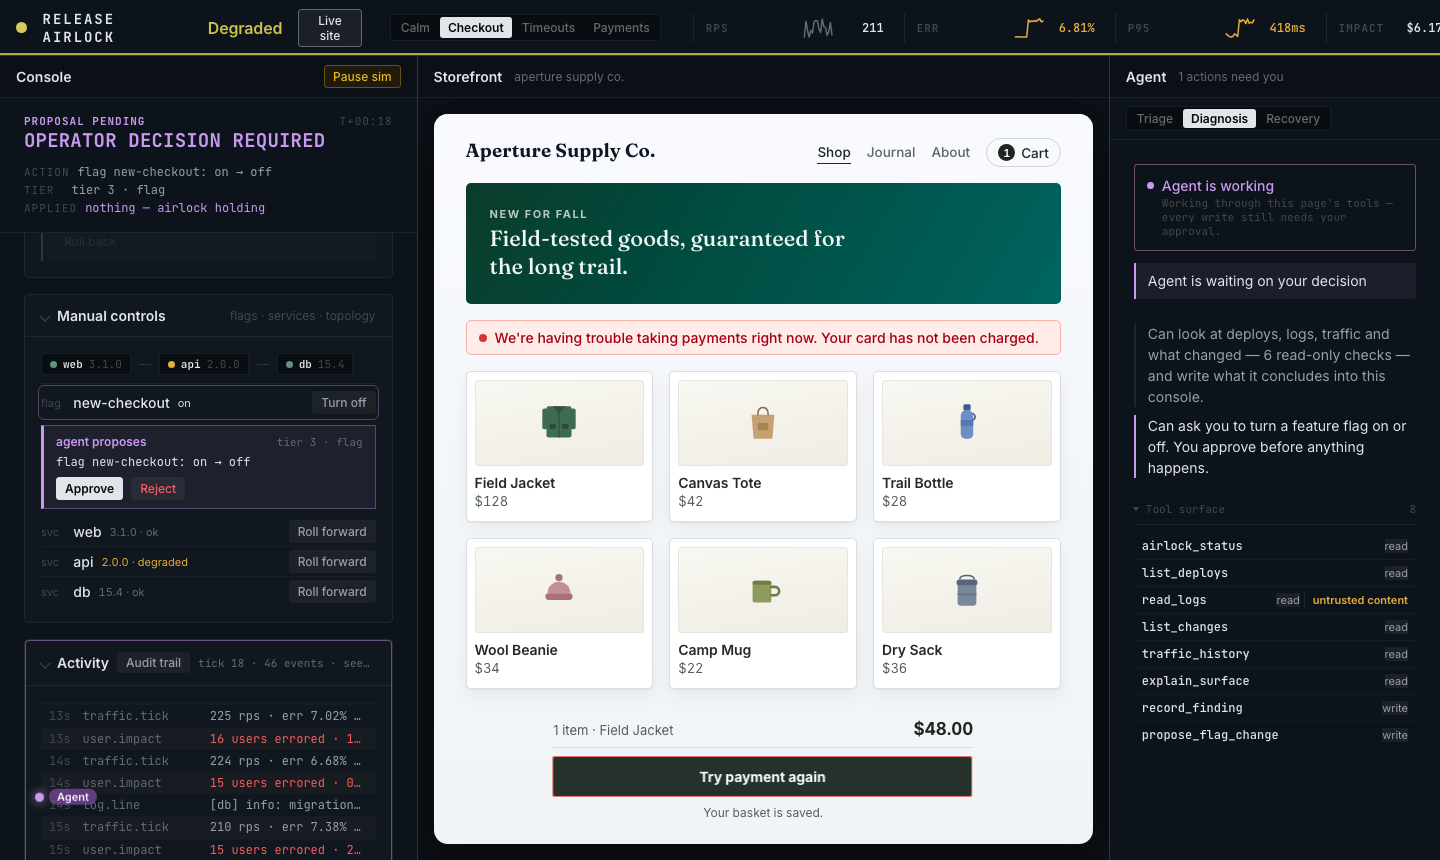
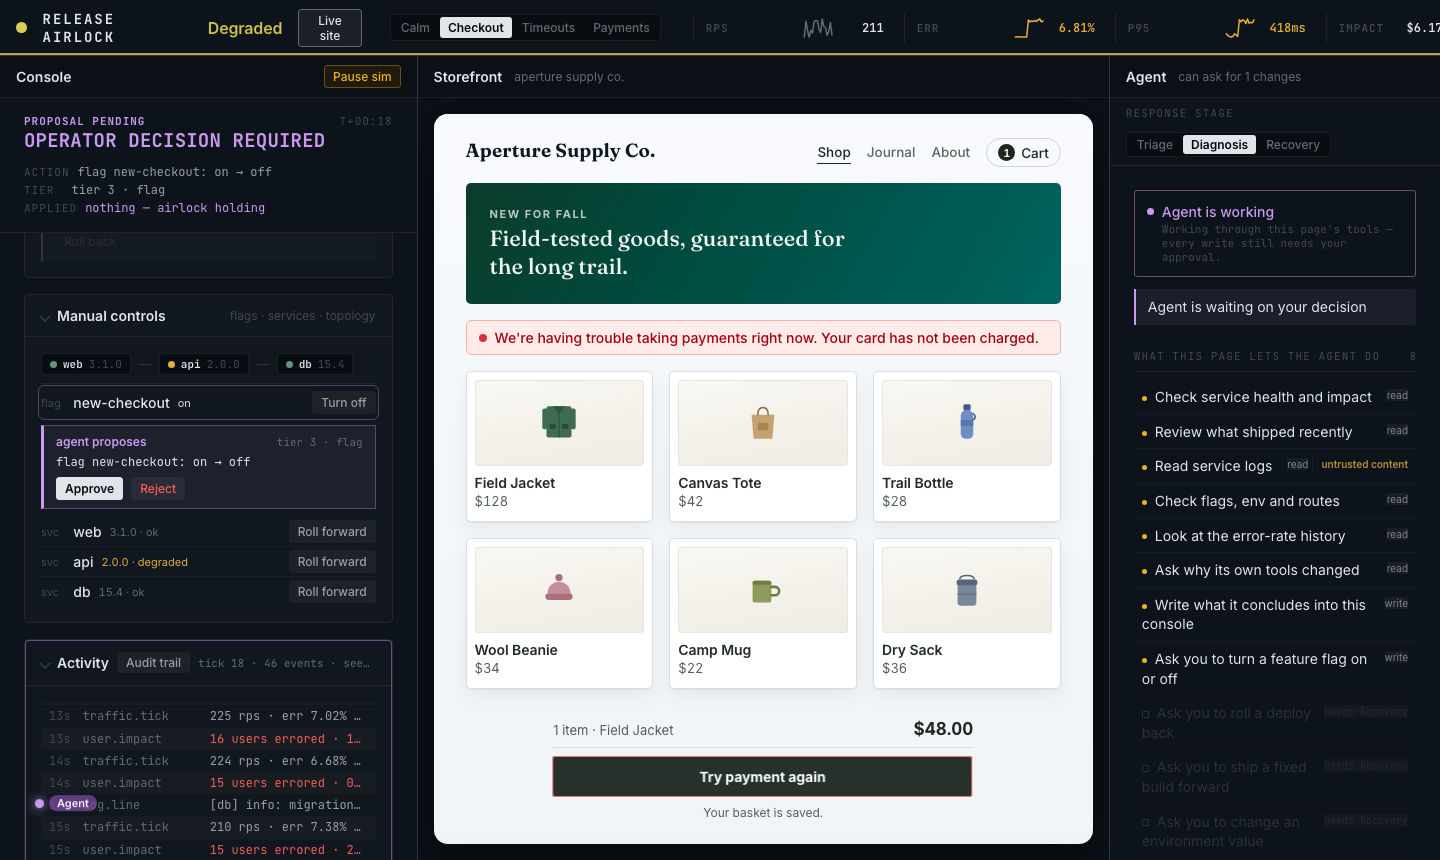
M5: the capability ladder — show what the page will and won't let the agent do
Sid: "what is the agent tool listing pane for? If I'm a new dev I don't know
what those tools do — it just increases cognitive load." And: build the
product so it exercises the SPIRIT of WebMCP, visibly.

The rail listed function names with read/write badges. That is an inventory;
it tells an operator nothing. Replaced with a ladder that answers the two
questions someone actually has: what can this thing reach right now, and
what is still shut?

  What this page lets the agent do                          12
  · Check service health and impact                       read
  · Review what shipped recently                          read
  · Write what it concludes into this console            write
  ▫ Ask you to roll a deploy back            needs Recovery
  ▫ Ask you to move traffic elsewhere        needs Recovery
  Every action on this page is available to the agent as a proposal.

Locked rungs are SHOWN, not hidden — "what it cannot do" is the more
reassuring half, and it makes the mode switch self-explanatory instead of
three unexplained words. Raw tool names moved to the title attribute: one
hover away for whoever wants them, off the surface for everyone else.

This is the thesis made visible rather than argued. The page decides what
the agent may attempt, and you can watch the decision change.

Also in this pass:
- the mode control is labelled "Response stage" rather than three bare pills
- locked rungs say "needs Diagnosis" / "needs Recovery", capitalised as
[…]

diff --git a/src/main.ts b/src/main.ts
@@ -2,7 +2,7 @@ import './styles/tokens.css';
 import './styles/shell.css';
 import { actionKey } from './harness/metrics';
 import { Engine } from './sim/engine';
-import { MODES, type Mode } from './sim/modes';
+import { MODES, MODE_WRITE_TOOLS, type Mode } from './sim/modes';
 import type { EntityRef, QueryRequest } from './sim/queries';
 import { templateIds } from './sim/templates';
 import type { SimRequest, SimResponse } from './sim/worker';
@@ -219,6 +219,7 @@ app.innerHTML = `
         <span class="pane-sub" id="rail-sub">standing by</span>
       </header>
       <div class="rail-modes">
+        <span class="rail-modes-label">Response stage</span>
         <div class="mode-switch" id="mode-switch" data-testid="mode-switch">
           ${MODES.map(
             (m) =>
@@ -240,15 +241,14 @@ app.innerHTML = `
 
         <div class="findings" id="agent-findings" aria-live="polite"></div>
 
-        <div class="agent-can" id="agent-can">
-          <p class="can-line" id="can-read"></p>
-          <p class="can-line" id="can-write"></p>
-        </div>
-
-        <details class="tool-surface" id="tool-surface" open>
-          <summary><span class="ts-label">Tool surface</span><span class="ts-count" id="tool-count"></span></summary>
+        <section class="ladder" id="tool-surface" aria-label="What the agent can reach">
+          <div class="ladder-head">
+            <span class="ladder-title">What this page lets the agent do</span>
+            <span class="ts-count" id="tool-count"></span>
+          </div>
           <ul id="tool-list" data-testid="tool-list"></ul>
-        </details>
+          <p class="ladder-foot" id="ladder-foot"></p>
+        </section>
 
         <div class="agent-empty" id="agent-empty">
           <p class="ae-head">No agent connected</p>
@@ -1556,36 +1556,54 @@ const HUMAN_WRITE: Record<string, string> = {
 
 function renderCapability(tools: AirlockTools): void {
   const active = tools.list().filter((t) => t.status === 'active');
-  // record_finding writes to the console's timeline, not the world, so it
-  // never waits on approval — listing it here said "you approve before
-  // anything happens" about a tool that needs no approval.
   const writes = active.filter((t) => !t.readOnly && t.name !== 'record_finding');
-  const readEl = document.querySelector<HTMLElement>('#can-read')!;
-  const writeEl = document.querySelector<HTMLElement>('#can-write')!;
-  const countEl = document.querySelector<HTMLElement>('#tool-count')!;
-
-  const reads = active.filter((t) => t.readOnly).length;
-  readEl.textContent = `Can look at deploys, logs, traffic and what changed — ${reads} read-only checks — and write what it concludes into this console.`;
-
-  if (writes.length === 0) {
-    writeEl.textContent = 'Cannot change anything in this mode.';
-    writeEl.dataset.tone = 'none';
-  } else {
-    const phrases = writes.map((w) => HUMAN_WRITE[w.name] ?? w.name);
-    const last = phrases.pop();
-    writeEl.textContent = `Can ask you to ${phrases.length ? `${phrases.join(', ')} or ${last}` : last}. You approve before anything happens.`;
-    writeEl.dataset.tone = 'write';
-  }
-  countEl.textContent = String(active.length);
-
+  const countEl = document.querySelector<HTMLElement>('#tool-count');
+  if (countEl) countEl.textContent = String(active.length);
   const sub = document.querySelector<HTMLElement>('#rail-sub');
-  if (sub) sub.textContent = writes.length === 0 ? 'read-only' : `${writes.length} actions need you`;
+  if (sub) {
+    sub.textContent =
+      writes.length === 0 ? 'can look, cannot change' : `can ask for ${writes.length} changes`;
+  }
+}
+
+/**
+ * THE CAPABILITY LADDER.
+ *
+ * A list of function names is an inventory; it tells an operator nothing.
+ * What they need is: what can this thing reach RIGHT NOW, and what is still
+ * shut. So the rail shows the whole ladder — granted rungs as plain
+ * sentences, and locked rungs with the stage that would open them.
+ *
+ * The thesis made visible rather than argued: the PAGE decides what the
+ * agent may attempt, and you can see the decision. Raw tool names stay one
+ * hover away, for whoever actually wants them.
+ */
+const RUNG_LABEL: Record<string, string> = {
+  airlock_status: 'Check service health and impact',
+  list_deploys: 'Review what shipped recently',
+  read_logs: 'Read service logs',
+  list_changes: 'Check flags, env and routes',
+  traffic_history: 'Look at the error-rate history',
+  explain_surface: 'Ask why its own tools changed',
+  record_finding: 'Write what it concludes into this console',
+  propose_flag_change: 'Ask you to turn a feature flag on or off',
+  propose_rollback: 'Ask you to roll a deploy back',
+  propose_rollforward: 'Ask you to ship a fixed build forward',
+  propose_env_change: 'Ask you to change an environment value',
+  propose_route_change: 'Ask you to move traffic elsewhere',
+};
+
+/** Which stage first grants each proposal, for the locked rungs. */
+function grantingStage(tool: string): Mode | undefined {
+  return MODES.find((m) => MODE_WRITE_TOOLS[m].includes(tool));
 }
 
 function renderToolRail(tools: AirlockTools): void {
   const list = document.querySelector<HTMLUListElement>('#tool-list')!;
   list.innerHTML = '';
+  const shown = new Set<string>();
   for (const t of tools.list()) {
+    shown.add(t.name);
     const li = document.createElement('li');
     li.dataset.tool = t.name;
     li.dataset.status = t.status;
@@ -1597,7 +1615,8 @@ function renderToolRail(tools: AirlockTools): void {
         ${t.untrusted ? '<span class="tool-badge tool-badge-untrusted">untrusted content</span>' : ''}
       </span>
     `;
-    li.querySelector('.tool-name')!.textContent = t.name;
+    li.querySelector('.tool-name')!.textContent = RUNG_LABEL[t.name] ?? t.name;
+    li.title = t.name; // the raw tool name stays one hover away
     if (t.status === 'tombstoned') {
       // The vanishing is the point, and it has to read in one glance — the
       // full reason ("left with recovery mode") wrapped to two ragged lines.
@@ -1610,9 +1629,33 @@ function renderToolRail(tools: AirlockTools): void {
     }
     list.append(li);
   }
+  // the rungs this page has NOT granted yet — shown, not hidden, because
+  // "what it cannot do" is the more reassuring half
+  for (const name of Object.keys(RUNG_LABEL)) {
+    if (shown.has(name)) continue;
+    const stage = grantingStage(name);
+    if (!stage) continue;
+    const li = document.createElement('li');
+    li.dataset.tool = name;
+    li.dataset.status = 'locked';
+    li.title = name;
+    li.innerHTML = `<span class="tool-name"></span><span class="tool-badges"><span class="tool-badge tool-badge-locked"></span></span>`;
+    li.querySelector('.tool-name')!.textContent = RUNG_LABEL[name]!;
+    li.querySelector('.tool-badge-locked')!.textContent =
+      `needs ${stage.charAt(0).toUpperCase()}${stage.slice(1)}`;
+    list.append(li);
+  }
+
   document.querySelectorAll<HTMLButtonElement>('#mode-switch [data-mode]').forEach((b) => {
     b.setAttribute('aria-pressed', String(b.dataset.mode === tools.mode()));
   });
+  const foot = document.querySelector<HTMLElement>('#ladder-foot');
+  if (foot) {
+    const locked = list.querySelectorAll('li[data-status="locked"]').length;
+    foot.textContent = locked
+      ? `${locked} more become available as you move the response stage on.`
+      : 'Every action on this page is available to the agent as a proposal.';
+  }
   renderCapability(tools);
 }
 

diff --git a/src/styles/shell.css b/src/styles/shell.css
@@ -1495,3 +1495,73 @@ body {
 .caution-foot { margin: var(--sp-2) 0 0; font-size: var(--text-2xs); color: var(--ink-ghost); }
 [data-caution='pending'] { box-shadow: 0 0 0 1px var(--actor-agent); }
 @media (prefers-reduced-motion: reduce) { .agent-caution { animation: none; } }
+
+/* --- the capability ladder ----------------------------------------------
+   Granted rungs read as plain sentences; locked rungs stay visible and say
+   what would open them. Function names live on hover, not on the surface. */
+.ladder { margin-bottom: var(--sp-3); }
+.ladder-head {
+  display: flex; align-items: baseline; gap: var(--sp-2);
+  padding-bottom: var(--sp-2);
+  border-bottom: 1px solid var(--line);
+}
+.ladder-title {
+  font-size: var(--text-2xs);
+  font-family: var(--font-instrument);
+  letter-spacing: .1em; text-transform: uppercase;
+  color: var(--ink-ghost);
+}
+.ladder .ts-count { margin-left: auto; font-variant-numeric: tabular-nums;
+  font-family: var(--font-instrument); font-size: var(--text-2xs); color: var(--ink-ghost); }
+.ladder-foot {
+  margin: var(--sp-2) 0 0;
+  font-size: var(--text-2xs); line-height: 1.55; color: var(--ink-ghost);
+}
+
+/* granted rungs: a sentence, not an identifier */
+#tool-list li { white-space: normal; align-items: flex-start; padding: 7px var(--sp-2); }
+#tool-list .tool-name {
+  font-family: var(--font-prose);
+  font-size: var(--text-sm);
+  font-weight: 400;
+  line-height: 1.4;
+  color: var(--ink);
+  overflow: visible; text-overflow: clip;
+}
+#tool-list li[data-status='active'] .tool-name::before {
+  content: '';
+  display: inline-block;
+  width: 5px; height: 5px; border-radius: 50%;
+  background: var(--health-bright);
+  margin-right: var(--sp-2); vertical-align: middle;
+}
+#tool-list .tool-badges { padding-top: 2px; }
+
+/* locked rungs: present, quiet, and self-explaining */
+#tool-list li[data-status='locked'] { opacity: 0.55; }
+#tool-list li[data-status='locked'] .tool-name { color: var(--ink-ghost); }
+#tool-list li[data-status='locked'] .tool-name::before {
+  content: '';
+  display: inline-block;
+  width: 5px; height: 5px; border-radius: 1px;
+  border: 1px solid var(--ink-ghost); background: none;
+  margin-right: var(--sp-2); vertical-align: middle;
+}
+.tool-badge-locked {
+  color: var(--ink-ghost);
+  font-family: var(--font-instrument);
+  font-size: var(--text-2xs);
+  white-space: nowrap;
+}
+#tool-list li[data-status='tombstoned'] .tool-name { text-decoration: line-through; }
+
+/* the stage control says what it is, instead of three unexplained words */
+.rail-modes { display: flex; align-items: center; gap: var(--sp-3); flex-wrap: wrap; }
+.rail-modes-label {
+  font-family: var(--font-instrument);
+  font-size: var(--text-2xs);
+  letter-spacing: .1em; text-transform: uppercase;
+  color: var(--ink-ghost);
+}
+/* the read/write badge is secondary to the sentence it annotates */
+#tool-list .tool-badge { font-size: 10px; opacity: .8; }
